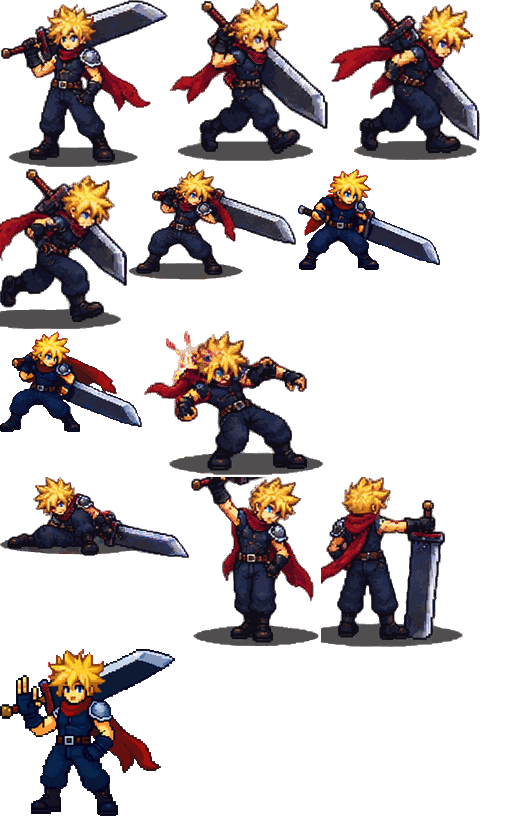
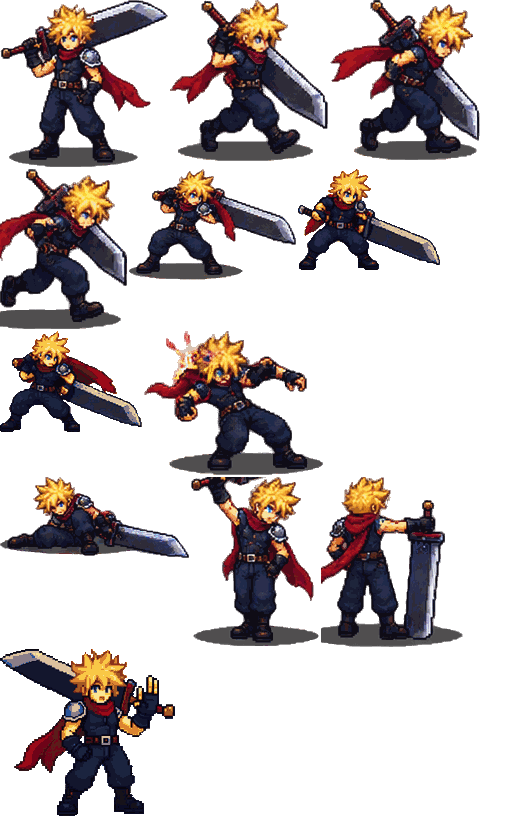
feat(ffm): one magic glow, a bigger swing arc, and a flipped cast pose
- A shared additive radial glow now drives the cast hand, a single impact burst
  on the strike, and the fireball/bolt projectiles, so the spells look like the
  light leaving the same hand.
- The swing arc is wider and reaches further (radius 86 -> 118px, heavier
  strokes) because the old one barely cleared the blade.
- Generated poses are snapped onto one shared palette taken from the sheet
  frames, and the cast frame is mirrored so the hero faces the fiend; the sword
  check measures the unquantised art so palette snapping cannot hide a blade.

diff --git a/sites/ffm/static/game/entities.js b/sites/ffm/static/game/entities.js
@@ -22,6 +22,24 @@ let _heroGroundOffsetPx = 0;
 export function getHeroGroundOffsetPx() { return _heroGroundOffsetPx; }
 export function setHeroGroundOffsetPx(px) { _heroGroundOffsetPx = px; }
 
+// Additive radial glow shared by the cast hand, the strike impact and the
+// spell projectiles, so every magic effect in the game reads as the same light.
+function _radialGlow(ctx, x, y, radius, alpha, core, mid) {
+  if (alpha <= 0 || radius <= 0) return;
+  ctx.save();
+  ctx.globalCompositeOperation = 'lighter';
+  ctx.globalAlpha = Math.min(1, alpha);
+  const gradient = ctx.createRadialGradient(x, y, 0, x, y, radius);
+  gradient.addColorStop(0, core);
+  gradient.addColorStop(0.45, mid);
+  gradient.addColorStop(1, 'rgba(0,0,0,0)');
+  ctx.fillStyle = gradient;
+  ctx.beginPath();
+  ctx.arc(x, y, radius, 0, Math.PI * 2);
+  ctx.fill();
+  ctx.restore();
+}
+
 const _heroAtlas = new Image();
 _heroAtlas.src = HERO_ATLAS;
 const _dragonSprite = new Image();
@@ -509,8 +527,8 @@ export class Hero extends Entity {
     const anchor = this.anim.frame.fxAt ?? [-19, -40];
     const cx = left + (frame.px + anchor[0]) * HERO_SCALE;
     const cy = top + (frame.py + anchor[1]) * HERO_SCALE;
-    const radius = 86;
-    const a0 = -1.25, a1 = 0.72;
+    const radius = 118;
+    const a0 = -1.35, a1 = 0.92;
 
     ctx.save();
     ctx.globalCompositeOperation = 'lighter';
@@ -519,18 +537,24 @@ export class Hero extends Entity {
       const s0 = a0 + (a1 - a0) * (i / 4);
       const s1 = a0 + (a1 - a0) * ((i + 1) / 4) + 0.02;
       ctx.globalAlpha = fade * (0.18 + 0.2 * i);
-      ctx.lineWidth = 4 + i * 3;
+      ctx.lineWidth = 6 + i * 4.5;
       ctx.strokeStyle = '#4ba6f0';
       ctx.beginPath();
       ctx.ellipse(cx, cy, radius, radius * 0.92, 0, s0, s1);
       ctx.stroke();
       ctx.globalAlpha = fade * (0.3 + 0.22 * i);
-      ctx.lineWidth = 2 + i * 1.4;
+      ctx.lineWidth = 3 + i * 2;
       ctx.strokeStyle = i === 3 ? '#eaf9ff' : '#9fdcff';
       ctx.beginPath();
       ctx.ellipse(cx, cy, radius, radius * 0.92, 0, s0, s1);
       ctx.stroke();
     }
+
+    // A single burst at the impact, same light as the cast: the swing is the
+    // moment the hit lands, so it gets one flash rather than a steady glow.
+    const burst = Math.max(0, 1 - (t - hitStart) / 0.3);
+    _radialGlow(ctx, cx + Math.cos(a1) * radius, cy + Math.sin(a1) * radius * 0.92,
+      58 * (0.7 + 0.5 * burst), 0.75 * burst, '#ffffff', '#4ba6f0');
 
     // Sparks fly off the blade end, where the arc is brightest.
     ctx.globalAlpha = fade;
@@ -559,22 +583,11 @@ export class Hero extends Entity {
     const fire = this._castFx === 'fire';
     const core = fire ? '#fff0b0' : '#dff4ff';
     const mid = fire ? '#ffb03a' : '#7fd4ff';
-    const edge = fire ? 'rgba(255,80,0,0)' : 'rgba(60,150,255,0)';
     const hx = left + (frame.px + anchor[0]) * HERO_SCALE;
     const hy = top + (frame.py + anchor[1]) * HERO_SCALE;
     const r = (20 + 12 * Math.abs(Math.sin(this._tick * 0.02))) * intensity;
-
+    _radialGlow(ctx, hx, hy, r * 3.2, 0.85 * intensity, core, mid);
     ctx.save();
-    ctx.globalCompositeOperation = 'lighter';
-    const g = ctx.createRadialGradient(hx, hy, 0, hx, hy, r * 3.2);
-    g.addColorStop(0, core);
-    g.addColorStop(0.45, mid);
-    g.addColorStop(1, edge);
-    ctx.globalAlpha = 0.85 * intensity;
-    ctx.fillStyle = g;
-    ctx.beginPath();
-    ctx.arc(hx, hy, r * 3.2, 0, Math.PI * 2);
-    ctx.fill();
     ctx.globalAlpha = 0.9 * intensity;
     ctx.fillStyle = core;
     ctx.beginPath();
@@ -1966,6 +1979,11 @@ class SpellProjectile {
     const t = 1 - (this._life / this._maxLife);
     const alpha = Math.max(0, Math.min(1, this._life / (this._maxLife * 0.3)));
     const { x, y } = this._posAt(t);
+
+    // The same additive glow the hero's palm carries while casting, so the
+    // fireball and the bolt look like that light leaving his hand.
+    _radialGlow(ctx, x, y, SPELL_SPRITE_DRAW_W * this._scale * 0.72, alpha * 0.7,
+      '#ffffff', this._trailColor);
 
     ctx.save();
 

diff --git a/sites/ffm/static/game/hero/hero-frames.js b/sites/ffm/static/game/hero/hero-frames.js
@@ -18,5 +18,5 @@ export const HERO_FRAMES = {
   'dead': { x: 0, y: 477, w: 189, h: 81, px: 116, py: 80 },
   'victory-raise': { x: 191, y: 477, w: 128, h: 169, px: 64, py: 168 },
   'victory-plant': { x: 321, y: 477, w: 142, h: 170, px: 70, py: 169 },
-  'cast': { x: 0, y: 649, w: 175, h: 167, px: 74, py: 166 },
+  'cast': { x: 0, y: 649, w: 175, h: 167, px: 100, py: 166 },
 };

diff --git a/sites/ffm/scripts/hero_frames.py b/sites/ffm/scripts/hero_frames.py
@@ -79,7 +79,9 @@ GENERATED_POSES: list[dict] = [
     # reproduces the reference plate, which holds a master frame upscaled x4, so
     # a 1024px output carries roughly 4x the master's pixels per character
     # pixel. Measured and corrected against the frame each pose derives from.
-    {"file": "cast.png", "id": "cast", "scale": 0.205, "strip_shadow": True},
+    # The cast pose was drawn facing away from the fight; the game always faces
+    # the fiend on the right, so the frame is mirrored on the way in.
+    {"file": "cast.png", "id": "cast", "scale": 0.205, "strip_shadow": True, "flip": True},
     {"file": "swing-impact.png", "id": "swing-impact", "scale": 0.172, "strip_shadow": True},
     {"file": "swing-follow.png", "id": "swing-follow", "scale": 0.172, "strip_shadow": True},
 ]
@@ -107,6 +109,9 @@ class Frame:
     id: str
     image: Image.Image
     origin: str
+    # Full-colour art before palette flattening; the sword check measures this
+    # so snapping colours cannot hide a blade from the geometry test.
+    source: Image.Image | None = None
 
 
 def _components(mask: np.ndarray) -> tuple[np.ndarray, int]:
@@ -208,7 +213,7 @@ def _strip_ground_shadow(rgba: np.ndarray) -> np.ndarray:
     return out
 
 
-def _generated_frame(spec: dict) -> Image.Image | None:
+def _generated_frame(spec: dict) -> tuple[Image.Image, Image.Image] | None:
     path = POSE_DIR / spec["file"]
     if not path.is_file():
         return None
@@ -221,10 +226,14 @@ def _generated_frame(spec: dict) -> Image.Image | None:
     if spec.get("strip_shadow"):
         rgba = _strip_ground_shadow(rgba)
     image = _crop_to_content(rgba)
+    if spec.get("flip"):
+        image = image.transpose(Image.FLIP_LEFT_RIGHT)
     if spec.get("scale"):
         size = (max(1, round(image.width * spec["scale"])), max(1, round(image.height * spec["scale"])))
         image = _resize_rgba(image, size)
-    return image
+        flattened = _flatten_to_palette(image, spec["palette"])
+        return flattened, image
+    return image, image
 
 
 def _despill(rgba: np.ndarray) -> np.ndarray:
@@ -241,6 +250,34 @@ def _despill(rgba: np.ndarray) -> np.ndarray:
     target = np.minimum(r, b)
     out[:, :, 1] = np.where(cast, target, g).astype(np.uint8)
     return out
+
+
+def _shared_palette(images: list[Image.Image], colours: int = 32) -> Image.Image:
+    """One palette for the whole sprite: the sheet frames define it.
+
+    Generated poses are painted with slightly different, softer colours; mapping
+    them onto the master's palette both keeps the hero looking like one
+    character and flattens the anti-aliased fringes the downscale leaves behind,
+    which is what makes the generated frames read as blurry next to the rest.
+    """
+    width = sum(i.width for i in images)
+    height = max(i.height for i in images)
+    strip = Image.new("RGB", (width, height), (0, 0, 0))
+    x = 0
+    for image in images:
+        strip.paste(image.convert("RGB"), (x, 0))
+        x += image.width
+    return strip.quantize(colors=colours, method=Image.MEDIANCUT)
+
+
+def _flatten_to_palette(image: Image.Image, palette: Image.Image | None) -> Image.Image:
+    """Snap a frame onto the shared palette, keeping its own alpha mask."""
+    if palette is None:
+        return image
+    alpha = np.array(image.split()[3])
+    rgb = image.convert("RGB").quantize(palette=palette, dither=Image.NONE).convert("RGB")
+    out = np.dstack([np.array(rgb), alpha])
+    return Image.fromarray(out, "RGBA")
 
 
 def _resize_rgba(image: Image.Image, size: tuple[int, int]) -> Image.Image:
@@ -277,14 +314,19 @@ def _pivot(image: Image.Image) -> tuple[int, int]:
 
 def collect() -> tuple[list[Frame], list[str]]:
     frames: dict[str, Frame] = {}
+    sheet_images: list[Image.Image] = []
     for (row, col), frame_id in SHEET_POSES.items():
-        frames[frame_id] = Frame(frame_id, _sheet_frame(row, col), f"sheet[{row},{col}]")
+        image = _sheet_frame(row, col)
+        sheet_images.append(image)
+        frames[frame_id] = Frame(frame_id, image, f"sheet[{row},{col}]")
+    palette = _shared_palette(sheet_images)
     for spec in GENERATED_POSES:
-        image = _generated_frame(spec)
-        if image is None:
+        built = _generated_frame({**spec, "palette": palette})
+        if built is None:
             print(f"  skip {spec['id']}: {spec['file']} not generated yet", file=sys.stderr)
             continue
-        frames[spec["id"]] = Frame(spec["id"], image, f"generated:{spec['file']}")
+        image, source = built
+        frames[spec["id"]] = Frame(spec["id"], image, f"generated:{spec['file']}", source)
     missing = [f for f in FRAME_ORDER if f not in frames]
     return [frames[f] for f in FRAME_ORDER if f in frames], missing
 
@@ -360,7 +402,7 @@ def check_sword(frame: Frame) -> dict:
     hidden stations are skipped, and every visible station on both sides of the
     body has to sit on the same straight line.
     """
-    a = np.array(frame.image).astype(int)
+    a = np.array(frame.source or frame.image).astype(int)
     alpha = a[:, :, 3] > 128
     rgb = a[:, :, :3]
     steel = _steel_mask(a)
